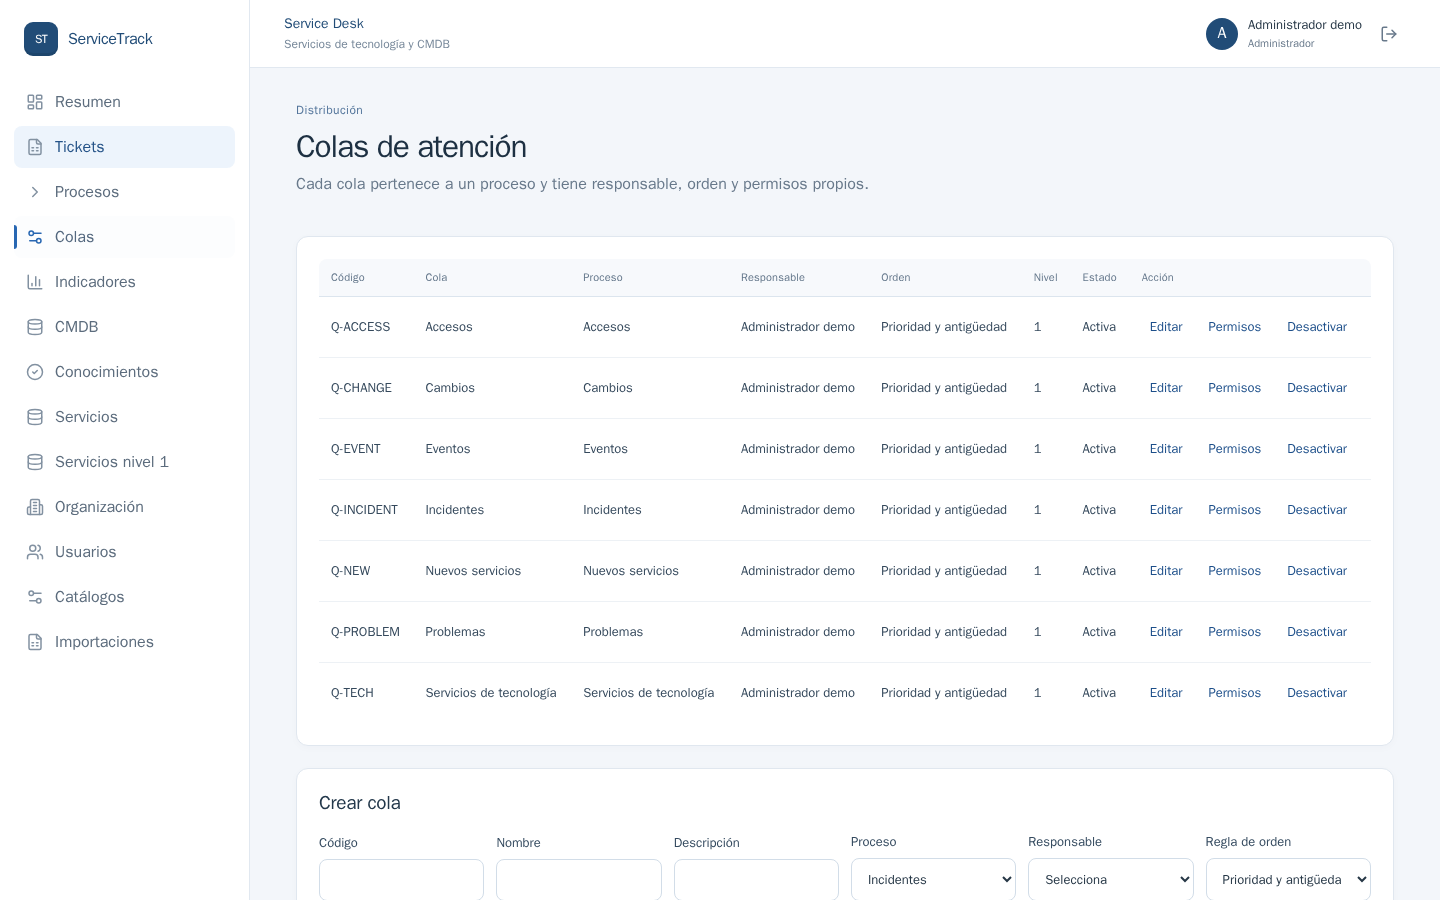
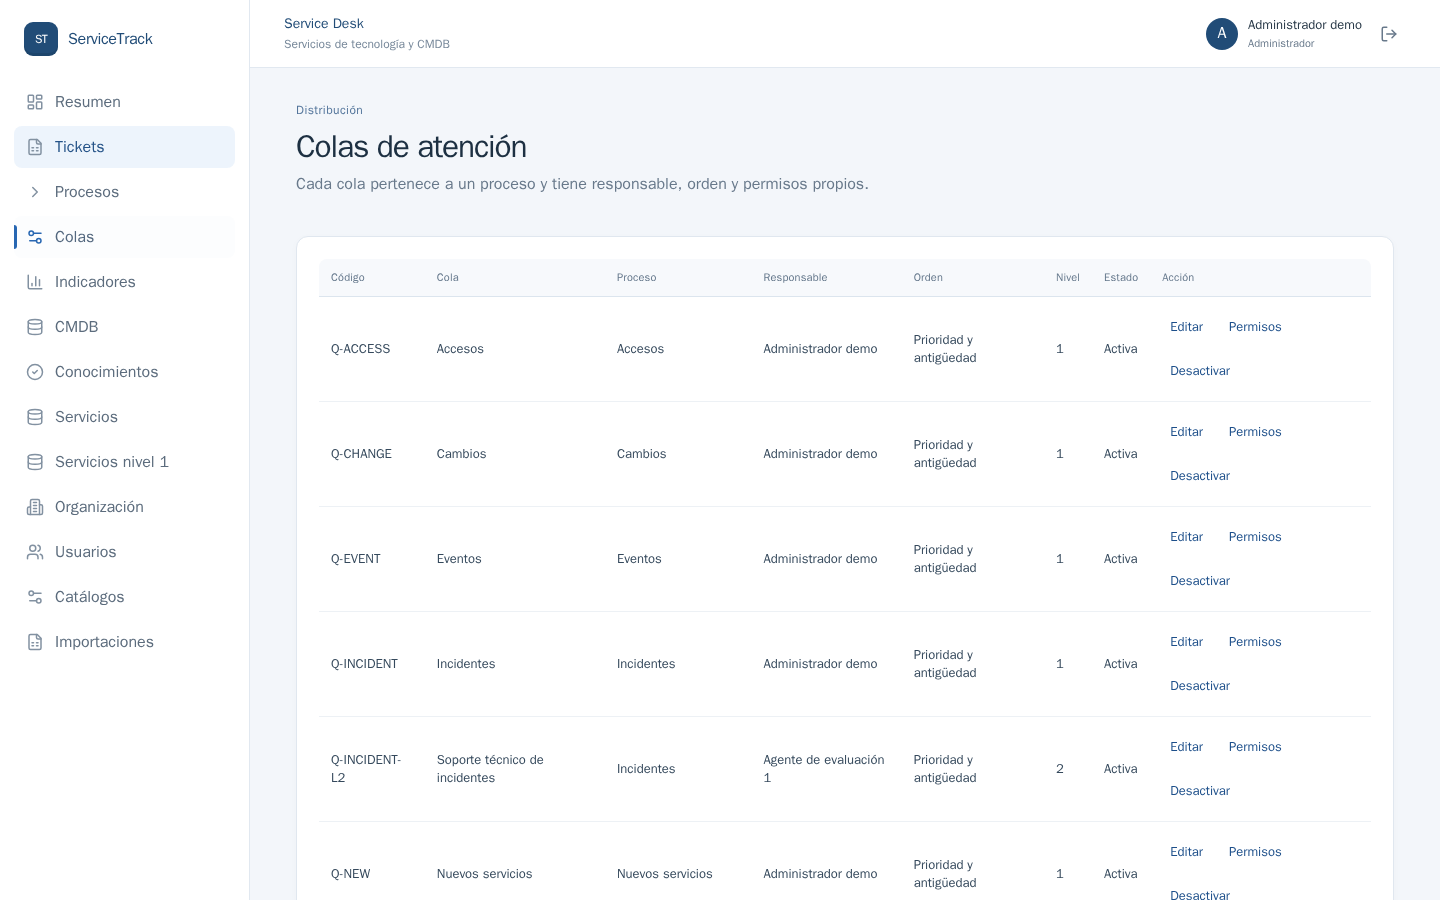
feat: visualize service desk indicators

diff --git a/apps/web/src/DeskPages.tsx b/apps/web/src/DeskPages.tsx
@@ -442,32 +442,43 @@ function objectiveSummary(value: unknown) {
   return `${met} de ${evaluated} dentro del objetivo (${percentage}%)`;
 }
 
+const chartColors = ['#2867b2','#31a782','#e5a64d','#7763ba','#e07673','#6094b9','#aab7c9'];
+function chartEntries(value: unknown) {
+  return Object.entries(value && typeof value === 'object' ? value as Record<string,number> : {})
+    .filter((entry) => Number.isFinite(Number(entry[1])) && Number(entry[1]) > 0)
+    .sort((a,b) => Number(b[1]) - Number(a[1]));
+}
+function MetricBars({ title, subtitle, values }: { title: string; subtitle: string; values: unknown }) {
+  const entries = chartEntries(values);
+  const maximum = Math.max(1,...entries.map(([,count]) => Number(count)));
+  return <section className="panel metrics-chart"><div className="metrics-chart-head"><h2>{title}</h2><span>{subtitle}</span></div>{entries.length ? <div className="metrics-bars">{entries.map(([name,count],index) => {const display=title==='Por prioridad'?`Prioridad ${name}`:title==='Por cola'?name:label(name);return <div className="metrics-bar-row" key={name}><div className="metrics-bar-label"><span title={display}>{display}</span><strong>{count}</strong></div><div className="metrics-track" role="img" aria-label={`${display}: ${count} tickets`}><span style={{width:`${Number(count)/maximum*100}%`,backgroundColor:chartColors[index%chartColors.length]}} /></div></div>;})}</div> : <p className="muted">Aún no hay tickets visibles para esta distribución.</p>}</section>;
+}
+function MetricDonut({ values }: { values: unknown }) {
+  const entries = chartEntries(values);
+  const total = entries.reduce((sum,[,count]) => sum+Number(count),0);
+  let position = 0;
+  const stops = entries.map(([,count],index) => {const start=position;position+=Number(count)/total*100;return `${chartColors[index%chartColors.length]} ${start}% ${position}%`;});
+  return <section className="panel metrics-chart"><div className="metrics-chart-head"><h2>Por estado</h2><span>Distribución de tickets</span></div><div className="metrics-donut-layout"><div className="metrics-donut" role="img" aria-label={entries.map(([name,count]) => `${label(name)}: ${count}`).join(', ') || 'Sin tickets'} style={{background:total?`conic-gradient(${stops.join(',')})`:'#e6edf5'}}><div><strong>{total}</strong><small>tickets</small></div></div><div className="metrics-legend">{entries.length ? entries.map(([name,count],index) => <div key={name}><i style={{backgroundColor:chartColors[index%chartColors.length]}}/><span>{label(name)}</span><strong>{count}</strong></div>) : <p className="muted">Sin tickets visibles.</p>}</div></div></section>;
+}
+function ObjectiveGauge({ title, value }: { title: string; value: unknown }) {
+  const row = value && typeof value==='object' ? value as {met?:number;evaluated?:number} : {};
+  const met = Number(row.met ?? 0), evaluated=Number(row.evaluated ?? 0);
+  const percentage = evaluated > 0 ? Math.min(100,Math.max(0,met/evaluated*100)) : 0;
+  return <div className="objective-gauge"><div className="objective-heading"><strong>{title}</strong><span>{evaluated ? `${percentage.toFixed(1)}%` : '—'}</span></div><div className="metrics-track" role="img" aria-label={objectiveSummary(value)}><span style={{width:`${percentage}%`,backgroundColor:percentage>=80?'#31a782':percentage>=50?'#e5a64d':'#e07673'}} /></div><small>{objectiveSummary(value)}</small></div>;
+}
+
 export function DeskMetricsPage() {
   const [data,setData] = useState<Record<string,unknown> | null>(null);
   const [error,setError] = useState('');
   useEffect(() => {api<Record<string,unknown>>('/desk/metrics').then(setData).catch((e) => setError(message(e)));},[]);
   if (error) return <div className="alert error">{error}</div>;
   if (!data) return <div className="loading">Cargando indicadores...</div>;
-  const groups = [['Por cola',data.byQueue],['Por proceso',data.byProcess],['Por prioridad',data.byPriority],['Por estado',data.byState]] as const;
-  return <div className="page">
-    <div className="page-heading"><div><p className="eyebrow">Indicadores</p><h1>Tablero de atención</h1><p className="muted">Cálculos sobre tickets visibles para tu cuenta.</p></div></div>
-    <div className="desk-kpi-grid">
-      {[
-        ['Tickets',data.total],['No cerrados o rechazados',data.open],
-        ['Antigüedad abierta (min)',data.averageOpenAgeMinutes],
-        ['Primera atención promedio (min)',data.averageFirstResponseMinutes],
-        ['Resolución promedio (min)',data.averageResolutionMinutes],
-      ].map(([title,value]) => <div className="metric-card" key={String(title)}><div><span>{String(title)}</span><strong>{value==null?'—':String(value)}</strong></div></div>)}
-    </div>
-    <div className="desk-metric-grid">{groups.map(([title,values]) => <section className="panel" key={title}><h2>{title}</h2>{Object.entries(values as Record<string,number>).map(([key,value]) => <div className="desk-stat" key={key}><span>{label(key)}</span><strong>{value}</strong></div>)}</section>)}</div>
-    <section className="panel desk-section">
-      <h2>Objetivos de atención</h2>
-      <div className="desk-objectives">
-        <div><strong>Primera respuesta</strong><span>{objectiveSummary(data.firstResponseObjective)}</span></div>
-        <div><strong>Resolución</strong><span>{objectiveSummary(data.resolutionObjective)}</span></div>
-      </div>
-      <p className="muted">{String(data.basis)}</p>
-    </section>
+  const kpis: Array<[string,unknown,string]> = [['Tickets visibles',data.total,'Total en las colas y solicitudes accesibles'],['En atención',data.open,'No cerrados ni rechazados'],['Antigüedad abierta',data.averageOpenAgeMinutes,'Promedio · minutos calendario'],['Primera atención',data.averageFirstResponseMinutes,'Promedio · minutos calendario'],['Resolución',data.averageResolutionMinutes,'Promedio · minutos sin pausas']];
+  return <div className="page metrics-page">
+    <div className="page-heading"><div><p className="eyebrow">Service Desk · medición</p><h1>Indicadores de atención</h1><p className="muted">Lectura actual de los tickets visibles para tu cuenta. Los gráficos se calculan con datos de la API.</p></div></div>
+    <div className="metrics-kpis">{kpis.map(([title,value,description],index) => <div className="metrics-kpi" key={title}><span className="metrics-kpi-mark" style={{backgroundColor:chartColors[index]}}/><small>{title}</small><strong>{value==null?'—':String(value)}{index>1&&value!=null?<em> min</em>:null}</strong><p>{description}</p></div>)}</div>
+    <div className="metrics-visual-grid"><MetricBars title="Por cola" subtitle="Carga de trabajo" values={data.byQueue}/><MetricBars title="Por proceso" subtitle="Origen de la demanda" values={data.byProcess}/><MetricBars title="Por prioridad" subtitle="Nivel asignado" values={data.byPriority}/><MetricDonut values={data.byState}/></div>
+    <section className="panel metrics-objectives"><div className="metrics-chart-head"><h2>Cumplimiento de objetivos</h2><span>Solo tickets con hito y objetivo configurado</span></div><div className="metrics-objective-grid"><ObjectiveGauge title="Primera respuesta" value={data.firstResponseObjective}/><ObjectiveGauge title="Resolución" value={data.resolutionObjective}/></div><details><summary>Cómo se calculan los indicadores</summary><p className="muted">{String(data.basis)}</p></details></section>
   </div>;
 }
 

diff --git a/apps/web/src/styles.css b/apps/web/src/styles.css
@@ -95,6 +95,47 @@
 .desk-extra-filters { margin-top:10px; flex-wrap:wrap; }
 .desk-extra-filters label { display:flex; flex-direction:column; gap:4px; font-size:12px; color:var(--color-muted); }
 .desk-extra-filters input[type="date"] { min-width:145px; }
+.metrics-page { --metrics-track:#e9eff5; }
+.metrics-kpis { display:grid; grid-template-columns:repeat(5,minmax(0,1fr)); gap:12px; margin-bottom:18px; }
+.metrics-kpi { position:relative; overflow:hidden; min-height:145px; padding:18px; background:#fff; border:1px solid var(--color-border); border-radius:12px; box-shadow:0 5px 17px rgba(32,59,91,.035); }
+.metrics-kpi-mark { position:absolute; inset:0 auto 0 0; width:4px; }
+.metrics-kpi small { display:block; color:var(--color-muted); font-size:12px; font-weight:700; }
+.metrics-kpi strong { display:block; margin:9px 0 6px; font-size:32px; line-height:1.1; letter-spacing:-.045em; font-variant-numeric:tabular-nums; }
+.metrics-kpi em { color:var(--color-muted); font-size:13px; font-style:normal; letter-spacing:0; }
+.metrics-kpi p { margin:0; color:var(--color-muted); font-size:11px; line-height:1.4; }
+.metrics-visual-grid { display:grid; grid-template-columns:repeat(2,minmax(0,1fr)); gap:16px; }
+.metrics-chart { min-height:295px; }
+.metrics-chart-head { display:flex; justify-content:space-between; align-items:baseline; flex-wrap:wrap; gap:8px; margin-bottom:22px; }
+.metrics-chart-head h2 { margin:0; font-size:16px; }
+.metrics-chart-head span { color:var(--color-muted); font-size:11px; }
+.metrics-bars { display:grid; gap:14px; }
+.metrics-bar-label { display:flex; justify-content:space-between; gap:12px; margin-bottom:6px; font-size:12px; }
+.metrics-bar-label span { min-width:0; overflow:hidden; text-overflow:ellipsis; white-space:nowrap; }
+.metrics-bar-label strong { font-variant-numeric:tabular-nums; }
+.metrics-track { height:10px; overflow:hidden; border-radius:999px; background:var(--metrics-track); }
+.metrics-track>span { display:block; height:100%; border-radius:inherit; min-width:0; }
+.metrics-donut-layout { display:grid; grid-template-columns:190px minmax(0,1fr); align-items:center; gap:25px; }
+.metrics-donut { width:190px; aspect-ratio:1; border-radius:50%; display:grid; place-items:center; }
+.metrics-donut>div { width:126px; aspect-ratio:1; display:grid; place-content:center; text-align:center; border-radius:50%; background:#fff; }
+.metrics-donut strong { font-size:30px; line-height:1; font-variant-numeric:tabular-nums; }
+.metrics-donut small { margin-top:5px; color:var(--color-muted); font-size:11px; }
+.metrics-legend { display:grid; gap:9px; max-height:220px; overflow:auto; }
+.metrics-legend>div { display:flex; align-items:center; gap:8px; font-size:11px; }
+.metrics-legend i { flex:none; width:9px; height:9px; border-radius:50%; }
+.metrics-legend span { min-width:0; flex:1; }
+.metrics-legend strong { font-variant-numeric:tabular-nums; }
+.metrics-objectives { margin-top:16px; }
+.metrics-objective-grid { display:grid; grid-template-columns:repeat(2,minmax(0,1fr)); gap:24px; }
+.objective-gauge { padding:15px; border:1px solid var(--color-border); border-radius:9px; }
+.objective-heading { display:flex; justify-content:space-between; gap:12px; margin-bottom:13px; font-size:13px; }
+.objective-heading span { color:var(--color-primary); font-weight:800; }
+.objective-gauge small { display:block; margin-top:10px; color:var(--color-muted); font-size:11px; }
+.metrics-objectives details { margin-top:20px; border-top:1px solid var(--color-border); padding-top:15px; font-size:12px; }
+.metrics-objectives summary { cursor:pointer; color:var(--color-primary); font-weight:700; }
+.metrics-objectives details p { margin:12px 0 0; }
+@media (max-width:1100px) { .metrics-kpis { grid-template-columns:repeat(3,minmax(0,1fr)); } }
+@media (max-width:800px) { .metrics-visual-grid,.metrics-objective-grid { grid-template-columns:1fr; } }
+@media (max-width:600px) { .metrics-kpis { grid-template-columns:repeat(2,minmax(0,1fr)); } .metrics-donut-layout { grid-template-columns:1fr; justify-items:center; } .metrics-legend { width:100%; } }
 
 /* Service Desk design system: quiet surfaces, clear data hierarchy, focused blue. */
 html { color-scheme: light; }

diff --git a/README.md b/README.md
@@ -38,6 +38,8 @@ El script de preparación crea ocho colas (una por cada uno de los siete proceso
 
 La sección **Procesos** del menú lateral presenta los siete recorridos en una sola pantalla: ruta principal, evidencias, reglas para avanzar y colas configuradas. Es una guía de consulta; las operaciones y restricciones reales se ejecutan en la API al trabajar con tickets. Para la defensa, selecciona varios procesos en esa vista y luego abre **Tickets** para demostrar uno en vivo.
 
+**Indicadores** presenta gráficas de barras por cola, proceso y prioridad; un gráfico circular por estado; tarjetas de antigüedad y tiempos; y barras de cumplimiento. Todos consumen `/api/desk/metrics`, muestran únicamente tickets visibles para la cuenta y no generan tendencias históricas ficticias. El panel desplegable explica la base de cálculo y [PROCESOS.md](docs/PROCESOS.md#indicadores) documenta las fórmulas.
+
 La importación de `data/fuentes/CMDB.xlsx` procesa dos CI originales y registra las referencias ambiguas sin inventar destinos; la generación agrega **5,000 dispositivos distintos**. Los comandos de carga son repetibles y no borran datos existentes. Ambos Excel originales se conservan sin cambios.
 
 En **Colas**, `ADMIN` crea una cola con responsable activo, proceso, nivel, objetivos y regla de orden (`prioridad → antigüedad` o `antigüedad → prioridad`). `ADMIN` puede delegar la administración de una cola con el permiso `can_admin`; ese permiso permite editarla, gestionar sus accesos y asignar tickets a usuarios autorizados. En **Tickets**, un agente con permiso puede tomar un caso libre; el administrador global o de la cola puede asignarlo o reasignarlo. La API conserva actor, motivo y valores anteriores/nuevos. La [política de autorización y asignación](docs/PROCESOS.md#colas-autorización-y-asignación) explica los bloqueos al desactivar usuarios o colas.
